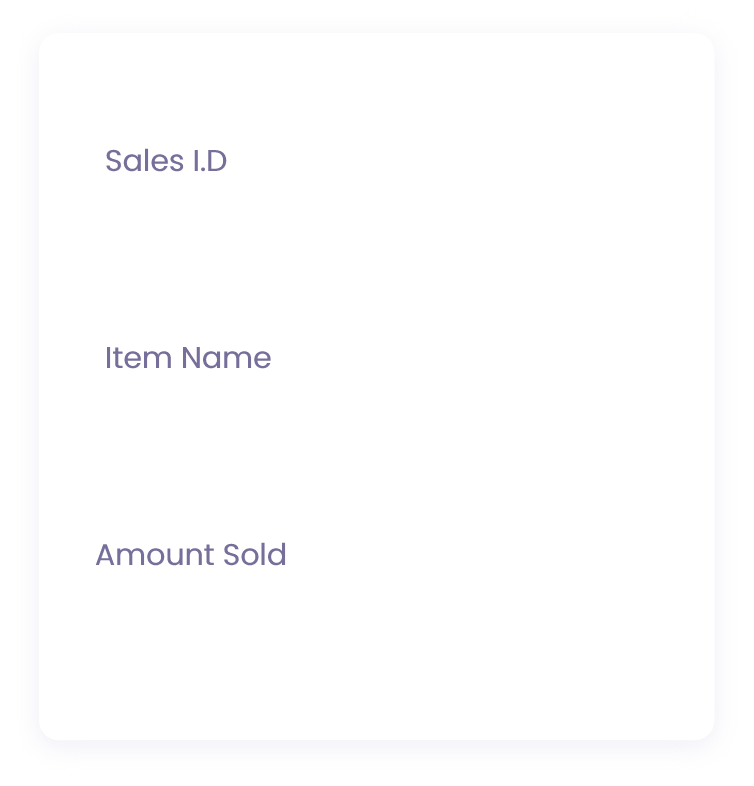
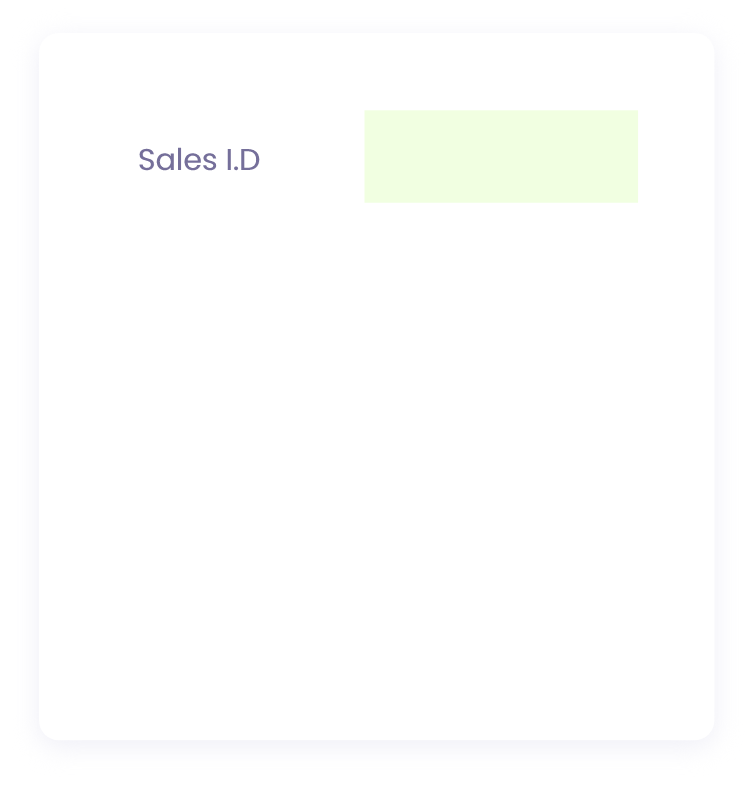
get sale and delete sale now have new pages

diff --git a/public/css/addconfirmed.css b/public/css/addconfirmed.css
@@ -8,39 +8,39 @@
 }
 
 #logo {
-position: absolute;
-  top: 30px;
-  left: 20px;
+    position: absolute;
+    top: 30px;
+    left: 20px;
 }
 
 #activ_col {
- position: absolute;
-  top: 580px;
-  left: 22px;
+    position: absolute;
+    top: 580px;
+    left: 22px;
 }
 
 #reports {
-position: absolute;
-  top: 200px;
-  left: 70px;
+    position: absolute;
+    top: 200px;
+    left: 70px;
 }
 
 #predictions {
- position: absolute;
-  top: 350px;
-  left: 50px;
+    position: absolute;
+    top: 350px;
+    left: 50px;
 }
 
 #new_sale {
-     position: absolute;
-  top: 500px;
-  left: 60px;
+    position: absolute;
+    top: 500px;
+    left: 60px;
 }
 
 #modify_sale {
-position: absolute;
-  top: 650px;
-  left: 60px;
+    position: absolute;
+    top: 650px;
+    left: 60px;
 }
 
 #add_stock {
@@ -54,43 +54,56 @@ position: absolute;
 
 /* format for th rest */
 #BackButton {
-	position: absolute;
-	top: 70px;
-	left: 350px;
+    position: absolute;
+    top: 70px;
+    left: 350px;
 }
 
 #Title {
-	position: absolute;
-	top: 70px;
-	left: 550px;
+    position: absolute;
+    top: 70px;
+    left: 550px;
 }
 
 #Table {
-	position: absolute;
-	top: 250px;
-	left: 300px;
+    position: absolute;
+    top: 250px;
+    left: 300px;
 }
 
 #BigBg {
-	position: absolute;
-	top: 250px;
-	left: 1200px;
+    position: absolute;
+    top: 250px;
+    left: 1200px;
 }
 
 #IdBg {
-	position: absolute;
-	top: 350px;
-	left: 670px;
+    position: absolute;
+    top: 380px;
+    left: 690px;
+    font-size: 2.2em;
+    color: #574b90;
+    font-family: Impact, Haettenschweiler, "Arial Narrow Bold", sans-serif;
 }
-
-#NameBg {
-	position: absolute;
-	top: 550px;
-	left: 670px;
+table {
+    position: absolute;
+    top: 500px;
+    left: 430px;
+    font-size: 1.2em;
+    text-align: center;
+    width: 25%;
 }
-
-#AmountBg {
-	position: absolute;
-	top: 750px;
-	left: 670px;
+th,
+td {
+    border: 1px solid black;
+    padding: 15px;
+}
+tr:nth-child(even) {
+    background-color: #f4faff;
+}
+th {
+    color: #261d56;
+}
+tr {
+    color: #655d8d;
 }

diff --git a/public/css/submitconfirmed.css b/public/css/submitconfirmed.css
@@ -15,12 +15,6 @@
     left: 20px;
 }
 
-/*#activ_col {
- position: absolute;
-  top: 125px;
-  left: 22px;
-}*/
-
 #reports {
     position: absolute;
     top: 200px;
@@ -90,4 +84,11 @@
     font-size: 3em;
     font-family: Impact, Haettenschweiler, "Franklin Gothic Bold", "Arial Black",
         "sans-serif";
+}
+#success_report {
+    font-size: 3em;
+    font-family: Impact, Haettenschweiler, "Arial Narrow Bold", sans-serif;
+    position: absolute;
+    top: 200px;
+    left: 550px;
 }

diff --git a/public/css/Reports.css b/public/css/Reports.css
@@ -267,12 +267,23 @@
 }
 table {
     position: absolute;
-    top: 400px;
-    left: 500px;
-    font-size: 3em;
+    top: 250px;
+    left: 450px;
+    font-size: 2.2em;
     text-align: center;
+    width: 50%;
 }
 th,
 td {
     border: 1px solid black;
+    padding: 15px;
+}
+tr:nth-child(even) {
+    background-color: #f4faff;
+}
+th {
+    color: #261d56;
+}
+tr {
+    color: #655d8d;
 }

diff --git a/resources/views/salerecord.blade.php b/resources/views/salerecord.blade.php
@@ -1,13 +1,35 @@
-<div class="container">
-  <h1>Get Sale Record</h1>
-  <p>sale record: {{ $saleId}}</p>
-  <table border="1px">
-    <tr><td>Item Name</td><td>Item Sold</td></tr>
+@extends('layouts.app')
+@section('title')
+Search Confirmed
+@endsection
+@section('css')
+   <link href="{{asset('css/addconfirmed.css')}}" rel="stylesheet" type="text/css">
+@endsection
+@section('verticalnav')
+@include('layouts.components.verticalnavsearch')
+@endsection
+@section('content')
+    <a href="EditItem">
+		<img src="../Assets/Search Confirmed Assets/arrow-left.png" alt="" id="BackButton" />
+	</a>
+	
+	<img src="../Assets/Search Confirmed Assets/TItle.png" alt="" id="Title" />
+	<img src="../Assets/Search Confirmed Assets/Table Template.png" alt="" id="Table" />
+	<img src="../Assets/Search Confirmed Assets/Search Confirm Bg.png" alt="" id="BigBg" />
+	
+  <div class="container">
+  <p id= "IdBg">{{$saleId}}</p>
+  <table>
+    <tr>
+      <th>Item Name</th>
+      <th>Item Sold</th>
+    </tr>
     @foreach($itemsolds as $itemsold)
       <tr>
         <td>{{$itemsold['Item_Name']}}</td>
         <td>{{$itemsold['Item_Sold']}}</td>
       </tr>
     @endforeach
-  </</table>>
+  </table>
 </div>
+@endsection

diff --git a/resources/views/deleterecord.blade.php b/resources/views/deleterecord.blade.php
@@ -1,4 +1,20 @@
+@extends('layouts.app')
+@section('title')
+AddSalesConfirmation
+@endsection
+@section('css')
+   <link href="{{asset('css/submitconfirmed.css')}}" rel="stylesheet" type="text/css">
+@endsection
+@section('verticalnav')
+@include('layouts.components.verticalnavbase')
+@endsection
+@section('content')
+<img src="../Assets/Submit Confirmed Assets/Title.png" alt="" id="PageTitle" />
+<img src="../Assets/Submit Confirmed Assets/ConfirmedText.png" id="ConfirmedText" />
+<img src="../Assets/Submit Confirmed Assets/ConfirmBg.png" id="ConfirmBg" />
+
+<input type="button" value="Back" onclick="history.back()" width="320" height="110" class = "large_buttons" id="BackButton" />
 
 <div class="container">
-  <p> {{$result}} </p>
+  <p id="success_report"> {{$result}} </p>
 </div>

diff --git a/resources/views/confirmationSale.blade.php b/resources/views/confirmationSale.blade.php
@@ -18,7 +18,7 @@ AddSalesConfirmation
 @section('content')
 
 <img src="../Assets/Submit Confirmed Assets/Title.png" alt="" id="PageTitle" />
-		<img src="../Assets/Submit Confirmed Assets/ConfirmedText.png" id="ConfirmedText" />
-		<img src="../Assets/Submit Confirmed Assets/ConfirmBg.png" id="ConfirmBg" />
-    
-    <input type="button" value="Back" onclick="history.back()" width="320" height="110" class = "large_buttons" id="BackButton" />
+<img src="../Assets/Submit Confirmed Assets/ConfirmedText.png" id="ConfirmedText" />
+<img src="../Assets/Submit Confirmed Assets/ConfirmBg.png" id="ConfirmBg" />
+
+<input type="button" value="Back" onclick="history.back()" width="320" height="110" class = "large_buttons" id="BackButton" />

diff --git a/resources/views/searchResult.blade.php b/resources/views/searchResult.blade.php
@@ -9,7 +9,8 @@ Search Confirmed
 @include('layouts.components.verticalnavsearch')
 @endsection
 @section('content')
-    <a href="modifysales.html">
+   
+    <a href="EditItem.html">
 		<img src="../Assets/Search Confirmed Assets/arrow-left.png" alt="" id="BackButton" />
 	</a>
 	
